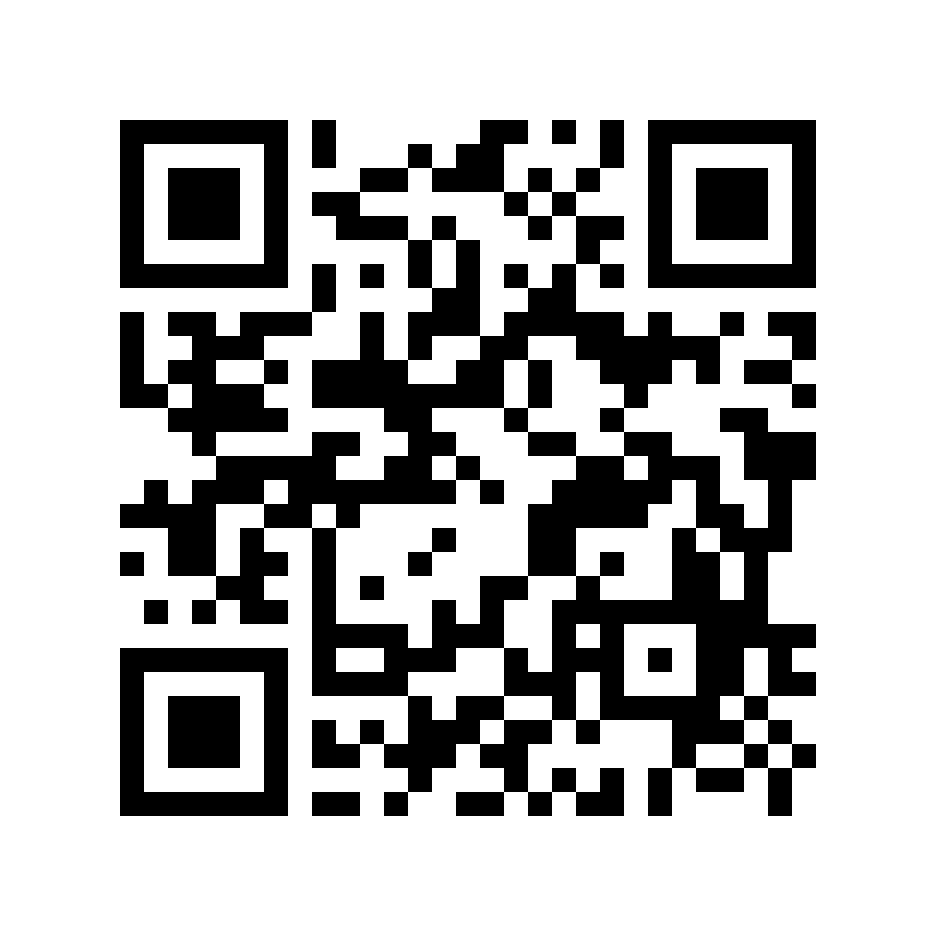
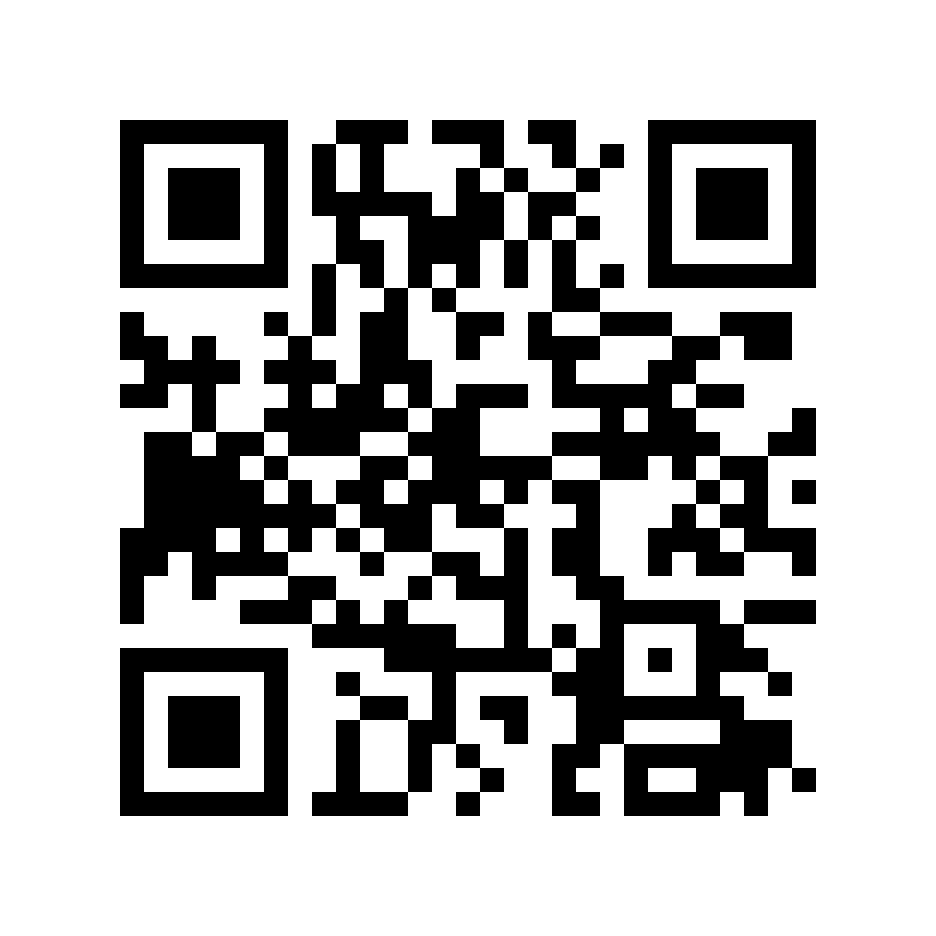
docs(profile): 更新 Discord 永久邀请链接并移除人数限制

Changed region(s): [[0.1239, 0.1239, 0.8985, 0.8985], [0.6197, 0.1239, 0.6816, 0.1549]]

diff --git a/profile/README.ja.md b/profile/README.ja.md
@@ -10,7 +10,7 @@
 		<a href="https://madewithlove.org.in"><img alt="Made with Love" src="https://img.shields.io/badge/Made%20with-Love-ff69b4.svg"></a>
 		<a href="https://github.com/Anime2Real"><img alt="GitHub" src="https://img.shields.io/badge/GitHub-Anime2Real-181717?logo=github&amp;logoColor=white"></a>
 		<a href="https://huggingface.co/chenxin199305"><img alt="Hugging Face" src="https://img.shields.io/badge/Hugging%20Face-Anime2Real-FFD21E?logo=huggingface&amp;logoColor=black"></a>
-		<a href="https://discord.gg/RtEBK2NBVS"><img alt="Discord" src="https://img.shields.io/badge/Discord-Join-5865F2?logo=discord&amp;logoColor=white"></a>
+		<a href="https://discord.gg/nr3a8hfCFp"><img alt="Discord" src="https://img.shields.io/badge/Discord-Join-5865F2?logo=discord&amp;logoColor=white"></a>
 		<a href="https://qm.qq.com/q/Mvv6waayM8"><img alt="QQ" src="https://img.shields.io/badge/QQ-809591826-12B7F5?logo=tencentqq&amp;logoColor=white"></a>
 	</p>
 </div>
@@ -80,13 +80,13 @@ Anime2Real · 809591826</p>
 <td width="50%" valign="top" align="center">
 <p><strong>Discord</strong><br>
 Anime2Real's Server</p>
-<p><a href="https://discord.gg/RtEBK2NBVS"><img src="../resource/discord_invite.png" alt="Anime2Real Discord 招待 QR コード" width="170"></a></p>
+<p><a href="https://discord.gg/nr3a8hfCFp"><img src="../resource/discord_invite.png" alt="Anime2Real Discord 招待 QR コード" width="170"></a></p>
 <p>QR コードまたはクリックで参加</p>
 </td>
 </tr>
 </table>
 
-<p align="center"><sub>Discord は 10 名までの限定です。二次元を本当に愛し、前向きなフィードバックをくださる方を歓迎します。</sub></p>
+<p align="center"><sub>Discord コミュニティはオープンです。二次元を本当に愛し、前向きなフィードバックをくださる方を歓迎します。</sub></p>
 
 ## 📄 ライセンスと免責事項
 

diff --git a/profile/README.en.md b/profile/README.en.md
@@ -10,7 +10,7 @@
 		<a href="https://madewithlove.org.in"><img alt="Made with Love" src="https://img.shields.io/badge/Made%20with-Love-ff69b4.svg"></a>
 		<a href="https://github.com/Anime2Real"><img alt="GitHub" src="https://img.shields.io/badge/GitHub-Anime2Real-181717?logo=github&amp;logoColor=white"></a>
 		<a href="https://huggingface.co/chenxin199305"><img alt="Hugging Face" src="https://img.shields.io/badge/Hugging%20Face-Anime2Real-FFD21E?logo=huggingface&amp;logoColor=black"></a>
-		<a href="https://discord.gg/RtEBK2NBVS"><img alt="Discord" src="https://img.shields.io/badge/Discord-Join-5865F2?logo=discord&amp;logoColor=white"></a>
+		<a href="https://discord.gg/nr3a8hfCFp"><img alt="Discord" src="https://img.shields.io/badge/Discord-Join-5865F2?logo=discord&amp;logoColor=white"></a>
 		<a href="https://qm.qq.com/q/Mvv6waayM8"><img alt="QQ" src="https://img.shields.io/badge/QQ-809591826-12B7F5?logo=tencentqq&amp;logoColor=white"></a>
 	</p>
 </div>
@@ -80,13 +80,13 @@ Anime2Real · Group 809591826</p>
 <td width="50%" valign="top" align="center">
 <p><strong>Discord</strong><br>
 Anime2Real's Server</p>
-<p><a href="https://discord.gg/RtEBK2NBVS"><img src="../resource/discord_invite.png" alt="Anime2Real Discord invite QR code" width="170"></a></p>
+<p><a href="https://discord.gg/nr3a8hfCFp"><img src="../resource/discord_invite.png" alt="Anime2Real Discord invite QR code" width="170"></a></p>
 <p>Scan or click to join</p>
 </td>
 </tr>
 </table>
 
-<p align="center"><sub>Discord is limited to 10 members. Fans who genuinely love anime and share constructive feedback are welcome.</sub></p>
+<p align="center"><sub>The Discord community is open to fans who genuinely love anime and share constructive feedback.</sub></p>
 
 ## 📄 License & Disclaimer
 

diff --git a/profile/README.md b/profile/README.md
@@ -10,7 +10,7 @@
 		<a href="https://madewithlove.org.in"><img alt="Made with Love" src="https://img.shields.io/badge/Made%20with-Love-ff69b4.svg"></a>
 		<a href="https://github.com/Anime2Real"><img alt="GitHub" src="https://img.shields.io/badge/GitHub-Anime2Real-181717?logo=github&amp;logoColor=white"></a>
 		<a href="https://huggingface.co/chenxin199305"><img alt="Hugging Face" src="https://img.shields.io/badge/Hugging%20Face-Anime2Real-FFD21E?logo=huggingface&amp;logoColor=black"></a>
-		<a href="https://discord.gg/RtEBK2NBVS"><img alt="Discord" src="https://img.shields.io/badge/Discord-Join-5865F2?logo=discord&amp;logoColor=white"></a>
+		<a href="https://discord.gg/nr3a8hfCFp"><img alt="Discord" src="https://img.shields.io/badge/Discord-Join-5865F2?logo=discord&amp;logoColor=white"></a>
 		<a href="https://qm.qq.com/q/Mvv6waayM8"><img alt="QQ" src="https://img.shields.io/badge/QQ-809591826-12B7F5?logo=tencentqq&amp;logoColor=white"></a>
 	</p>
 </div>
@@ -80,13 +80,13 @@ Anime2Real · 群号 809591826</p>
 <td width="50%" valign="top" align="center">
 <p><strong>Discord</strong><br>
 Anime2Real's Server</p>
-<p><a href="https://discord.gg/RtEBK2NBVS"><img src="../resource/discord_invite.png" alt="Anime2Real Discord 邀请二维码" width="170"></a></p>
+<p><a href="https://discord.gg/nr3a8hfCFp"><img src="../resource/discord_invite.png" alt="Anime2Real Discord 邀请二维码" width="170"></a></p>
 <p>扫码或点击加入</p>
 </td>
 </tr>
 </table>
 
-<p align="center"><sub>Discord 限额 10 人，欢迎真正热爱二次元、愿意提供积极反馈的同好。</sub></p>
+<p align="center"><sub>Discord 社区已开放，欢迎真正热爱二次元、愿意提供积极反馈的同好。</sub></p>
 
 ## 📄 许可与声明
 
